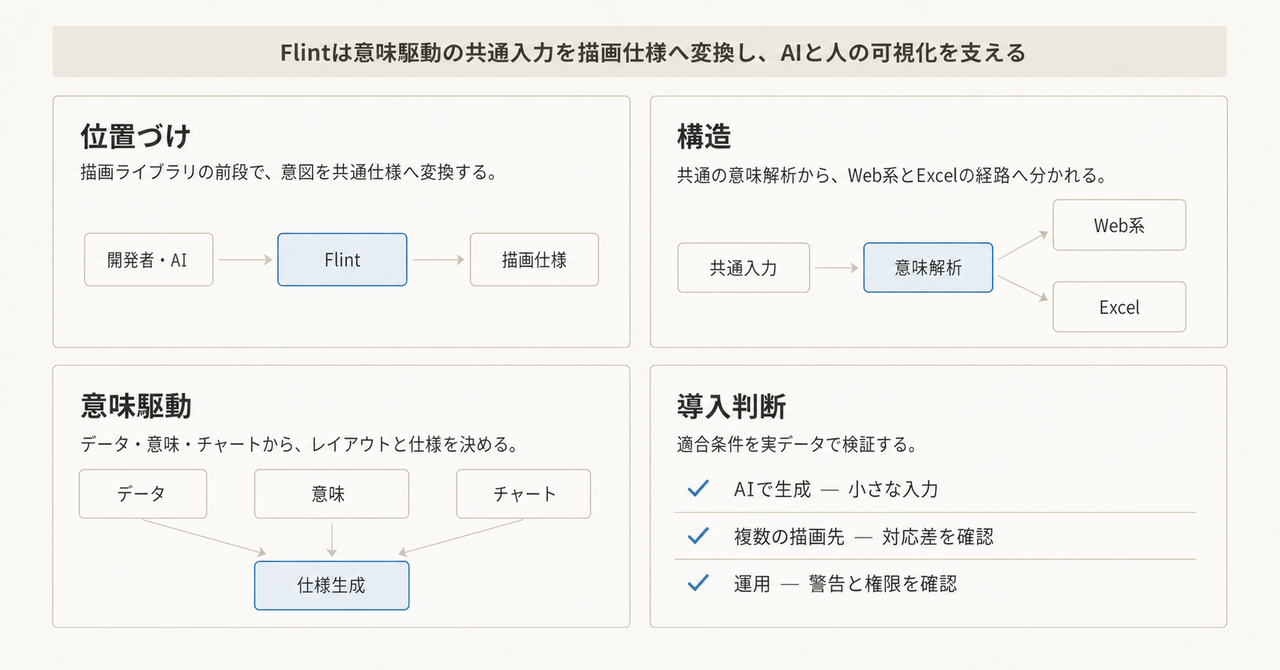
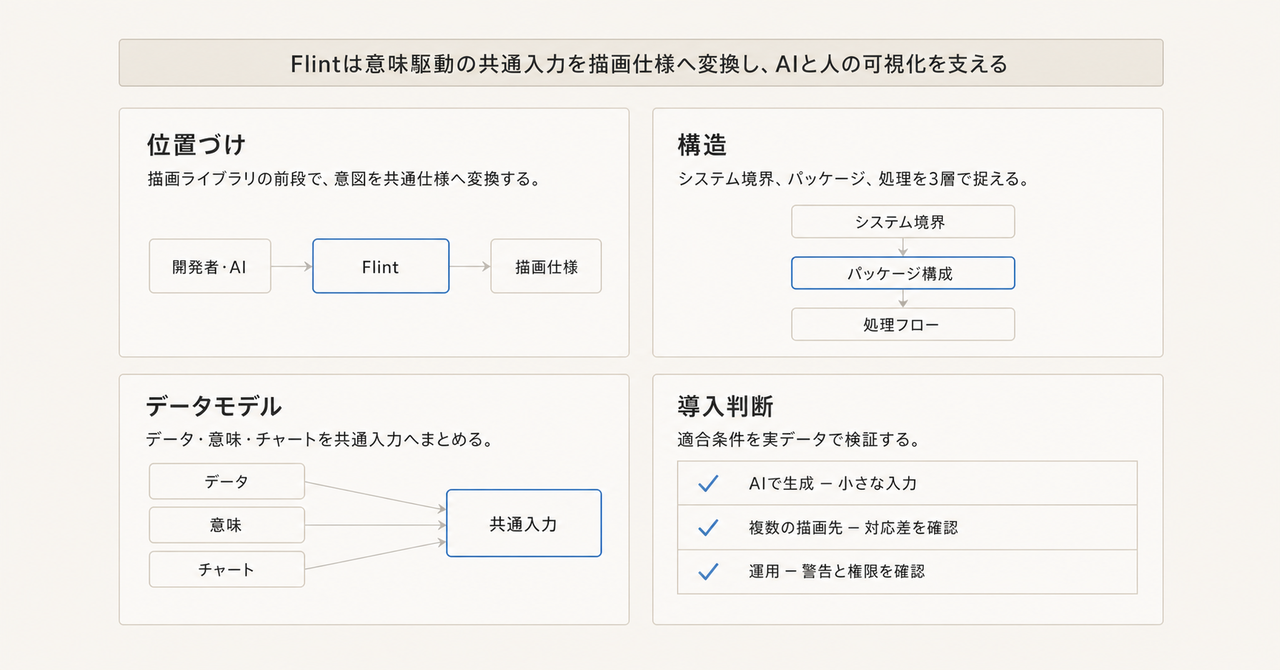
chore

diff --git a/articles/flint-chart_20260811.md b/articles/flint-chart_20260811.md
@@ -6,16 +6,16 @@ topics: ["DataVisualization", "TypeScript", "MCP", "AI"]
 published: false
 ---
 
-Flint Chartは、データの意味と作りたいチャートを簡潔に指定し、複数の描画ライブラリ向け仕様へ変換する可視化コンパイラです。人間が使うTypeScript APIに加え、AIエージェントが検証・コンパイル・レンダリングを実行できるMCPサーバーも提供しています。
+Flint Chartは、データの意味と作りたいチャートを簡潔に指定し、複数の描画ライブラリ向け仕様へ変換する可視化コンパイラです。TypeScript APIに加え、AIエージェントが検証・コンパイル・レンダリングを実行できるMCPサーバーも提供しています。
 
-本記事では、Flintの構造とデータモデル、導入方法、実装例、運用上の制約を、2026年8月11日時点の公式リポジトリに沿って解説します。
+本記事では、Flintのシステム境界と実装構造、概念・情報モデル、導入方法、実装例、運用上の制約を、2026年8月11日時点の公式リポジトリに沿って解説します。
 
 ![記事の全体像](/images/flint-chart_20260811/overview.png)
 *この記事の全体像。以下、順に解説します。*
 
 ## 概要
 
-従来の可視化ライブラリでは、軸、スケール、凡例、余白、ラベルなどを細かく指定します。表現力が高い一方、LLMが設定全体を生成すると、データ件数やラベルの長さによって表示が崩れやすくなります。
+一般的な可視化ライブラリでは、軸、スケール、凡例、余白、ラベルなどを細かく指定します。表現力が高い一方、LLMが設定全体を生成すると、データ件数やラベルの長さによって表示が崩れやすくなります。
 
 Flintは「どのように描くか」よりも「データが何を意味するか」を入力の中心に置きます。利用者は行データ、セマンティックタイプ、チャート種別、視覚チャネルを指定します。コンパイラが意味解析とレイアウト調整を行い、描画バックエンドのネイティブ仕様へ変換します。
 
@@ -28,17 +28,6 @@ Flint自体はCanvasやSVGへ直接描画するライブラリではありませ
 - Chart.js configuration
 - Plotly.js figure
 - Excelネイティブチャート用アーティファクト
-
-```mermaid
-flowchart LR
-  Author["開発者 / AI"]
-  Flint["Flint Chart<br/>意味駆動コンパイラ"]
-  Web["Vega-Lite / ECharts<br/>Chart.js / Plotly"]
-  Excel["Excel<br/>Office.js"]
-  Author -->|共通入力| Flint
-  Flint -->|ネイティブ仕様| Web
-  Flint -->|アーティファクト| Excel
-```
 
 既存ライブラリを置き換えるというより、その前段へバックエンド非依存の意味層を追加する位置づけです。
 
@@ -64,60 +53,193 @@ Economist、Swiss、Popなどの組み込みプリセットを利用できます
 
 ### AIエージェント向けMCPサーバー
 
-`flint-chart-mcp`は、入力検証、ネイティブ仕様へのコンパイル、PNG/SVGレンダリング、チャート種別の列挙をMCPツールとして公開します。MCP Apps対応ホストでは、対話的なチャート調整画面も表示できます。
+`flint-chart-mcp`は、入力検証、ネイティブ仕様へのコンパイル、PNG/SVGレンダリング、チャート種別とテーマの列挙をMCPツールとして公開します。MCP Apps対応ホストでは、対話的なチャート調整画面も表示できます。
 
 ## 構造
 
-Flintのリポジトリは、コンパイラ本体、MCPサーバー、Pythonプレビュー、ドキュメントサイトから構成されます。
+Flintを利用するアクター、リポジトリ／パッケージ構成、コンパイラ内部の処理という3段階で整理します。最初の図はC4のSystem Contextに近い境界図ですが、後続2図は厳密なC4のContainer／Component図ではありません。ライブラリやモジュールを配備単位と誤認させないため、実装構造に即した名称で示します。
 
-| コンテナ | 役割 | 状態・制約 |
+### システムコンテキスト図
+
+開発者またはAIエージェントは、共通の`ChartAssemblyInput`をFlintへ渡します。Flintは意味を解決し、各レンダリング環境が受け取れるネイティブ仕様を返します。
+
+```mermaid
+flowchart TD
+  Author["開発者 / AIエージェント"]
+  Flint["Flint Chart<br/>可視化中間言語・コンパイラ"]
+  VegaLite["Vega-Lite"]
+  ECharts["ECharts"]
+  ChartJs["Chart.js"]
+  Plotly["Plotly"]
+  Excel["Excel<br/>Office.js"]
+  Author -->|ChartAssemblyInput| Flint
+  Flint -->|Vega-Lite spec| VegaLite
+  Flint -->|ECharts option| ECharts
+  Flint -->|Chart.js config| ChartJs
+  Flint -->|Plotly figure| Plotly
+  Flint -->|Excel artifact| Excel
+```
+
+| 要素 | 種別 | 責務 |
 |---|---|---|
-| `packages/flint-js` | TypeScriptコンパイラと各アセンブラ | npmパッケージ`flint-chart` |
-| `packages/flint-mcp` | MCPサーバーとMCP App | npmパッケージ`flint-chart-mcp` |
-| `packages/flint-py` | Pythonポート | ソースプレビュー。公開パッケージ前提では使わない |
-| `site` | ギャラリー、エディタ、ドキュメント | ViteとReactで構築 |
+| 開発者 / AIエージェント | アクター | データの意味とチャート意図を共通入力として作成 |
+| Flint Chart | 対象システム | 意味解析、レイアウト調整、ネイティブ仕様生成 |
+| 描画バックエンド | 外部システム | Flintの出力をCanvas、SVG、Excelチャートなどへ描画 |
 
-### Web系バックエンドのパイプライン
+この境界により、エージェントは各描画ライブラリの詳細設定を毎回生成せず、Flintの小さな入力面へ集中できます。
 
-Vega-Lite、ECharts、Chart.js、Plotlyのアセンブラは、意味解析とレイアウト計算を共有します。
+### リポジトリ／パッケージ構成図（元調査の「コンテナ図」）
+
+リポジトリは、TypeScriptコンパイラ、MCPサーバー、Pythonプレビュー、Webサイトに分かれています。
+
+```mermaid
+flowchart TD
+  subgraph Repository["Flint Repository"]
+    FlintJs["packages/flint-js<br/>TypeScript Library"]
+    FlintMcp["packages/flint-mcp<br/>MCP Server / MCP App"]
+    FlintPy["packages/flint-py<br/>Python Port Preview"]
+    Site["site<br/>Gallery / Editor / Docs"]
+  end
+  FlintMcp -->|コンパイルを委譲| FlintJs
+  Site -->|プレビューに利用| FlintJs
+  FlintPy -.->|入力形を追従| FlintJs
+  FlintJs --> Backends["Vega-Lite / ECharts / Chart.js<br/>Plotly / Excel Assemblers"]
+```
+
+| パッケージ／領域 | 技術 | 役割・制約 |
+|---|---|---|
+| `packages/flint-js` | TypeScript | コンパイラ本体と5種類のアセンブラ。npm名は`flint-chart` |
+| `packages/flint-mcp` | TypeScript / MCP | エージェント向けツールとMCP App。npm名は`flint-chart-mcp` |
+| `packages/flint-py` | Python | ソースプレビュー。公開パッケージ前提では利用しない |
+| `site` | Vite / React | ギャラリー、エディタ、ドキュメント |
+
+MCPサーバーは`flint-js`を利用しますが、公開するバックエンドはVega-Lite、ECharts、Chart.jsの3種類です。PlotlyとExcelはTypeScript API側で利用します。
+
+### コンパイラ処理フロー（元調査の「コンポーネント図」）
+
+Web系4バックエンドは、意味解析とレイアウト計算を共有します。Excelは共通の意味解析を再利用しつつ、Office.js向けの独自プランニング経路へ分岐します。
 
 ```mermaid
 flowchart TD
   Input["ChartAssemblyInput"]
   Semantics["Phase 0<br/>意味解析"]
   Layout["Phase 1<br/>レイアウト計算"]
-  Generator["Phase 2<br/>仕様生成"]
-  Native["バックエンド<br/>ネイティブ仕様"]
+  WebGenerator["Phase 2<br/>Web系仕様生成"]
+  WebOutput["Vega-Lite / ECharts<br/>Chart.js / Plotly"]
+  ExcelPlanner["Excel固有<br/>チャート計画"]
+  ExcelOutput["Excel artifact"]
   Input --> Semantics
   Semantics -->|ChannelSemantics| Layout
-  Layout -->|LayoutResult| Generator
-  Generator --> Native
+  Layout -->|LayoutResult| WebGenerator
+  WebGenerator --> WebOutput
+  Semantics --> ExcelPlanner
+  ExcelPlanner --> ExcelOutput
 ```
 
-Phase 0では、`semantic_types`、実データ、エンコーディングを組み合わせ、チャネルごとの意味を解決します。Phase 1では、目標サイズとデータ密度から寸法やオーバーフロー方針を決定します。Phase 2では、バックエンド別の`ChartTemplateDef`を使ってネイティブ仕様を組み立てます。
+| コンポーネント | 入力 | 主な出力 |
+|---|---|---|
+| Phase 0: 意味解析 | データ、`semantic_types`、encodings | チャネルごとの意味と書式判断 |
+| Phase 1: レイアウト計算 | 意味、データ密度、サイズ制約 | 寸法、ステップ、ファセット、オーバーフロー判断 |
+| Web系仕様生成 | 最適化済みコンテキスト、テンプレート | 各ライブラリのネイティブ仕様 |
+| Excel固有プランナー | 意味解析結果、Excelテンプレート | Office.jsへ渡せるシリアライズ可能なartifact |
 
-### Excelの例外
-
-Excelは共通の意味解析を再利用しますが、Web系4バックエンドと同じ`computeLayout()`経路ではありません。Office.js向けの独自プランニングを行い、シリアライズ可能なアーティファクトを生成します。
-
-この差は、サイズ制約や警告の扱いにも表れます。共通入力を受け取るからといって、内部処理や戻り値の細部まで同じとは限りません。
+この分岐は、`canvasSize`や警告の扱いがExcelとWeb系で完全には一致しない理由にもなります。
 
 ## データ
 
-Flintの公開APIでは、`ChartAssemblyInput`がルートオブジェクトです。
+Flintの入力を、概念間の関係と公開型の情報モデルに分けて整理します。
 
-| フィールド | 必須 | 役割 |
-|---|---:|---|
-| `data` | 必須 | `{ values: rows[] }`または型定義上の`{ url }` |
-| `semantic_types` | 任意 | フィールド名から意味型または注釈への対応 |
-| `chart_spec` | 必須 | チャート種別、チャネル、サイズ、タイトル |
-| `theme_spec` | 任意 | プリセット名またはカスタムテーマ |
-| `options` | 任意 | 伸長率、最小ステップ、色数上限など |
-| `field_display_names` | 任意 | 軸や凡例に使う表示名 |
+### 概念モデル
 
-### セマンティック注釈
+`ChartAssemblyInput`は、データ、意味、チャート意図、テーマ、コンパイルオプションを束ねるルート概念です。チャート種別と視覚チャネルは`ChartSpec`へ、色やタイポグラフィは`ThemeSpec`へ分離されます。
 
-単純な文字列に加え、単位、固有範囲、並び順を指定できます。
+```mermaid
+flowchart TD
+  Input["ChartAssemblyInput"]
+  Data["Data<br/>values / url"]
+  SemanticTypes["SemanticTypes<br/>field meaning"]
+  ChartSpec["ChartSpec<br/>what to show"]
+  ThemeSpec["ThemeSpec<br/>how to style"]
+  Options["AssembleOptions<br/>compiler limits"]
+  Encodings["Encodings<br/>x / y / color"]
+  ThemeParts["Ink / Typography<br/>Layout"]
+  Input --> Data
+  Input --> SemanticTypes
+  Input --> ChartSpec
+  Input --> ThemeSpec
+  Input --> Options
+  ChartSpec --> Encodings
+  ThemeSpec --> ThemeParts
+```
+
+| 概念 | 意味 | 再利用単位 |
+|---|---|---|
+| Data | 描画対象の行データ | チャートごと、またはデータセットごと |
+| SemanticTypes | フィールドが表す業務上の意味 | データセット単位 |
+| ChartSpec | チャート種別とチャネル割り当て | 可視化ごと |
+| ThemeSpec | 色、余白、書体などのデザイン判断 | ブランドまたは製品単位 |
+| AssembleOptions | 伸長率、最小ステップ、色数上限など | 実行環境単位 |
+
+型定義上は`data.url`も表現できますが、TypeScriptのコアアセンブラはURLを取得しません。意味解析とレイアウト計算が必要なホストでは、事前にデータを取得し、`data.values`へ展開して渡します。MCPサーバーはローカルJSON、CSV、TSVを独自に解決します。
+
+### 情報モデル
+
+主要な公開型の所有関係を示します。内部クラスをAPIレスポンスと混同しないため、ここでは利用者が入力・操作する型に絞ります。
+
+```mermaid
+classDiagram
+  class ChartAssemblyInput {
+    +data
+    +semantic_types
+    +chart_spec
+    +theme_spec
+    +options
+    +field_display_names
+  }
+  class ChartSpec {
+    +chartType
+    +title
+    +subtitle
+    +encodings
+    +baseSize
+    +canvasSize
+    +chartProperties
+  }
+  class SemanticAnnotation {
+    +semanticType
+    +intrinsicDomain
+    +unit
+    +sortOrder
+  }
+  class ChartEncoding {
+    +field
+    +type
+    +aggregate
+    +sortOrder
+    +scheme
+  }
+  class ThemeSpec {
+    +id
+    +extends
+    +ink
+    +layout
+    +type
+  }
+  ChartAssemblyInput *-- ChartSpec
+  ChartAssemblyInput *-- ThemeSpec
+  ChartAssemblyInput *-- SemanticAnnotation
+  ChartSpec *-- ChartEncoding
+```
+
+| 型 | 主要フィールド | 役割 |
+|---|---|---|
+| `ChartAssemblyInput` | `data`、`semantic_types`、`chart_spec`、`theme_spec` | コンパイル入口 |
+| `ChartSpec` | `chartType`、`encodings`、サイズ、タイトル | 何をどのチャネルへ割り当てるか定義 |
+| `SemanticAnnotation` | `semanticType`、`unit`、`sortOrder` | 文字列型では足りない意味情報を補足 |
+| `ChartEncoding` | `field`、`type`、`aggregate`、`sortOrder` | 個々の視覚チャネルを定義 |
+| `ThemeSpec` | `extends`、`ink`、`layout`、`type` | デザインシステムを定義 |
+
+セマンティック注釈は、次のようにデータセット単位でまとめます。
 
 ```typescript
 const semanticTypes = {
@@ -127,19 +249,7 @@ const semanticTypes = {
 };
 ```
 
-同じデータセットから複数チャートを作る場合、意味定義は共有し、`chart_spec`だけを差し替えると一貫性を保ちやすくなります。
-
-### `data.url`の扱い
-
-型定義上は`data.url`を表現できますが、TypeScriptのコアアセンブラはURLを取得しません。意味解析とレイアウト計算が必要なホストでは、事前にデータを取得し、`data.values`へ展開して渡します。
-
-MCPサーバーはローカルJSON、CSV、TSVファイルを独自に解決できます。TypeScript APIとMCPサーバーの責務を混同しないことが重要です。
-
-### チャート仕様とサイズ
-
-`chart_spec`には、テンプレートの正式名とチャネルを指定します。たとえば棒グラフの公開名は`"Bar Chart"`です。
-
-Web系バックエンドでは、`baseSize`は目標サイズ、`canvasSize`は超えてはいけない上限として扱われます。`canvasSize`を省略した場合は、既定で`baseSize`から一定範囲まで伸長できます。現行のExcel実装は出力寸法へ`canvasSize`を反映しないため、Excelでは`baseSize`自体を必要な上限内に設定します。
+Web系バックエンドでは、`baseSize`は目標サイズ、`canvasSize`は超えてはいけない上限として扱われます。現行のExcel実装は出力寸法へ`canvasSize`を反映しないため、Excelでは`baseSize`自体を必要な上限内に設定します。
 
 ## 構築方法
 
@@ -181,7 +291,7 @@ npm run site
 
 新しいWeb系バックエンドを追加する場合は、コアの意味解析を再利用し、バックエンド固有のテンプレートレジストリ、`assemble`処理、ネイティブ仕様の組み立てを実装します。
 
-内部型は更新される可能性があるため、記事中の簡略サンプルをそのまま雛形にせず、公式の「Extending backends」と現行ソースを基準にしてください。
+内部型は更新される可能性があるため、簡略サンプルをそのまま雛形にせず、公式の拡張ドキュメントと現行ソースを基準にしてください。
 
 ## 利用方法
 
@@ -222,6 +332,8 @@ const vegaLiteSpec = assembleVegaLite(input);
 ```
 
 戻り値は描画済み画像ではなく、Vega-Liteへ渡せるJSON仕様です。
+
+次の画像は、同じAPIを使った別例です。ヒートマップ用の入力がVega-Lite仕様へ変換され、描画される流れを示しています。
 
 ![簡潔なFlint仕様からVega-Lite仕様とヒートマップを生成する例](/images/flint-chart_20260811/compile-demo.png)
 
@@ -286,8 +398,6 @@ const { code, meta } = generateOfficeJs(artifact, {
 }
 ```
 
-現行MCPサーバーが`compile_chart`、`validate_chart`、`render_chart`で扱うバックエンドはVega-Lite、ECharts、Chart.jsです。PlotlyとExcelはTypeScript API側で利用します。
-
 | MCPツール | 役割 | 論理的な結果内容 |
 |---|---|---|
 | `list_chart_types` | 対応チャートとチャネルの確認 | チャート種別一覧 |
@@ -297,7 +407,7 @@ const { code, meta } = generateOfficeJs(artifact, {
 | `render_chart` | 静的画像の生成 | PNGまたはSVG。Chart.jsはPNGのみ |
 | `create_chart_view` | 対話的な調整 | MCP Apps対応ホストのUI |
 
-MCPプロトコル上、`validate_chart`と`compile_chart`のJSONはトップレベルへ直接展開されず、`content[0].text`内のJSON文字列として返ります。`render_chart`はPNGの場合に`ImageContent`、SVGの場合にSVG文字列を含む`TextContent`を返します。クライアント実装では、表の論理結果と実際のContent Block構造を区別してください。
+MCPプロトコル上、`validate_chart`と`compile_chart`のJSONは`content[0].text`内の文字列として返ります。`render_chart`はPNGの場合に`ImageContent`、SVGの場合にSVG文字列を含む`TextContent`を返します。
 
 ## 運用
 
@@ -388,9 +498,9 @@ Web系バックエンドでは、`baseSize`を読みやすい目標、`canvasSiz
 
 ## まとめ
 
-Flint Chartは、データの意味を共通入力として保持し、複数の描画バックエンドへ変換する可視化コンパイラです。AIエージェントに小さな仕様面を提供しつつ、意味解析、レイアウト調整、検証、レンダリングを分離できます。
+Flint Chartは、データの意味を共通入力として保持し、複数の描画バックエンドへ変換する可視化コンパイラです。C4相当の構造で見ると、利用者とバックエンドの間にFlintを置き、`flint-js`を中心にMCPとWeb UIを接続し、内部では意味解析からWeb系・Excel固有経路へ分岐する設計だと分かります。
 
-導入時は、バックエンドごとの対応チャート、テーマ適用範囲、サイズと警告のExcel例外を確認してください。MCP運用では、transportごとのファイル参照既定値とホスト側の権限管理も重要です。まずは実データで小さく試し、生成仕様と警告を含めて評価するのがよいでしょう。
+データ面では、`ChartAssemblyInput`がData、SemanticTypes、ChartSpec、ThemeSpec、Optionsを束ねます。導入時は、バックエンドごとの対応チャート、テーマ適用範囲、サイズと警告のExcel例外を確認してください。MCP運用では、transportごとのファイル参照既定値とホスト側の権限管理も重要です。
 
 この記事が少しでも参考になった、あるいは改善点などがあれば、ぜひリアクションやコメント、SNSでのシェアをいただけると励みになります！
 
